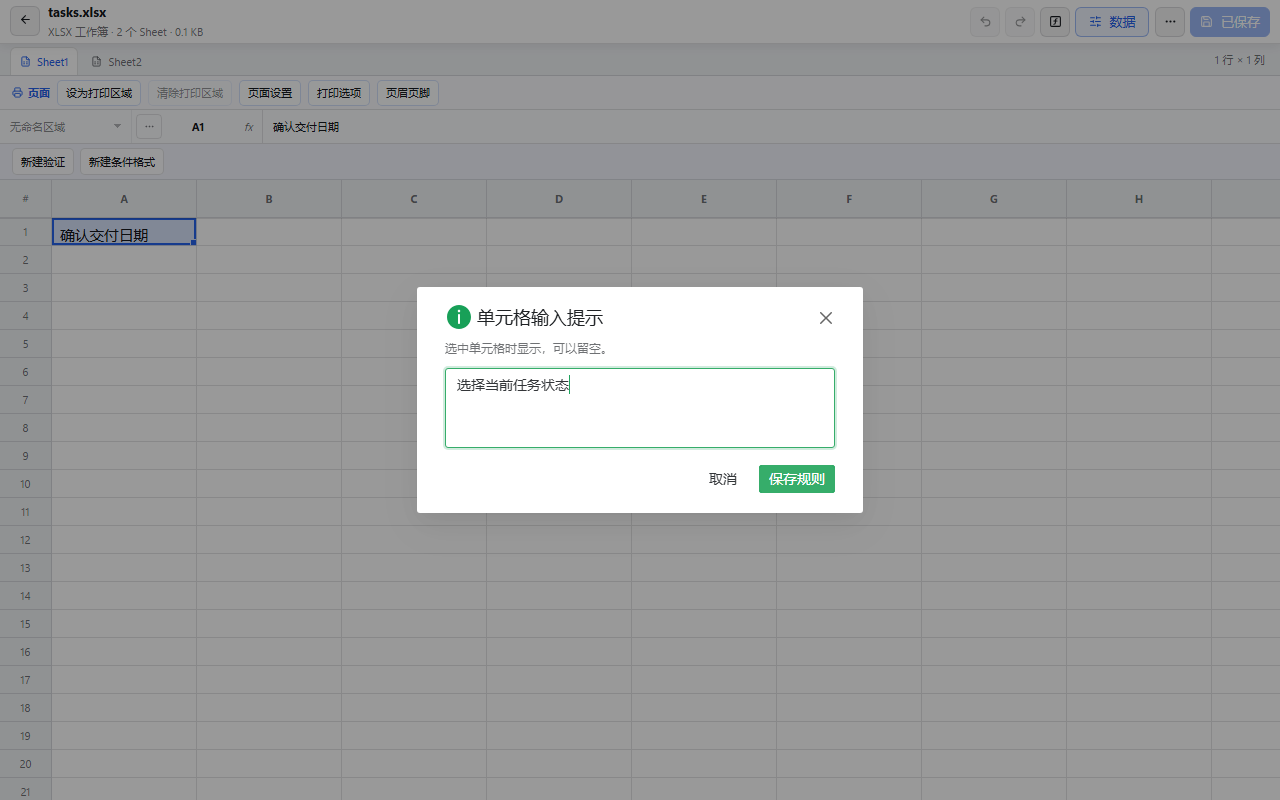
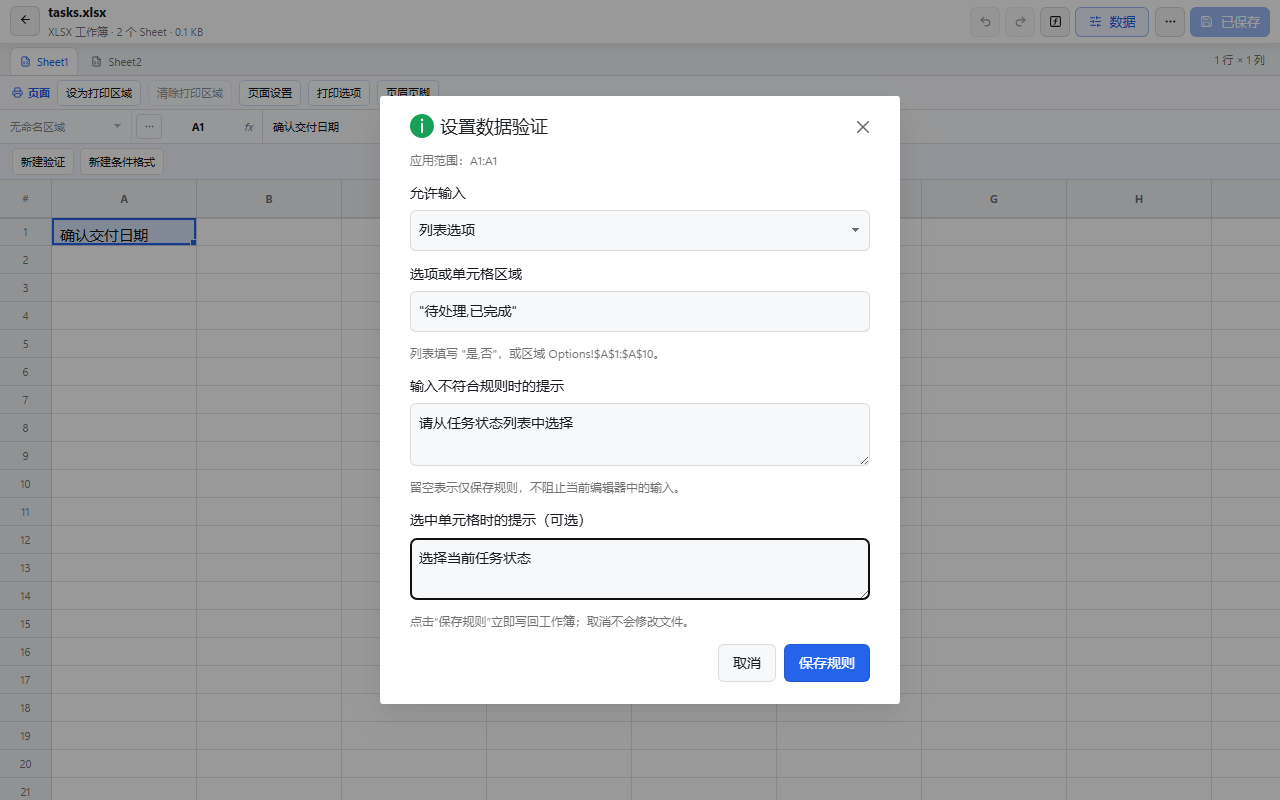
feat(ui): replace workbook validation prompts with a labeled form

Changed region(s): [[0.2812, 0.0938, 0.7188, 0.9062]]

diff --git a/src/views/WorkbookView.vue b/src/views/WorkbookView.vue
@@ -897,6 +897,8 @@ import WorkspaceToolbar from '../components/workspace/WorkspaceToolbar.vue'
 import WorkspaceTabs from '../components/WorkspaceTabs.vue'
 import { recallWorkspaceViewState, rememberWorkspaceViewState } from '../services/workspaceViewState'
 import { confirmAppAction, promptAppAction } from '../services/appDialog'
+import WorkbookValidationForm, { type ValidationFields } from '../components/WorkbookValidationForm.vue'
+import { h } from 'vue'
 import { useDialog, useMessage } from 'naive-ui'
 import { AlignCenter as AlignCenterIcon, AlignLeft as AlignLeftIcon, AlignRight as AlignRightIcon, ArrowLeft as ArrowLeftIcon, Bold as BoldIcon, Check as CheckIcon, ChevronDown as ChevronDownIcon, FileSpreadsheet as SheetIcon, FunctionSquare as FunctionIcon, Grid2X2 as BorderIcon, Italic as ItalicIcon, MoreHorizontal as MoreIcon, PaintBucket as FillIcon, Printer as PrinterIcon, Redo2 as RedoIcon, Save as SaveIcon, SlidersHorizontal as SlidersIcon, Type as TypeIcon, Underline as UnderlineIcon, Undo2 as UndoIcon, WrapText as WrapIcon } from 'lucide-vue-next'
 import { useAppStore } from '../store/app'
@@ -2983,60 +2985,42 @@ const commitTableLifecycleChange = (change: WorkbookTableChange, area: WorkbookM
   if (sheetProtected.value) return void message.error('当前 Sheet 受保护，不能编辑 Table')
   stageWorkbookObjectDraft({ kind: 'table', label: success, area: { ...area }, tableChange: cloneDraftData(change) })
 }
-const promptDataValidationRule = async (existing: WorkbookDataValidation | undefined, ranges: WorkbookMergeRange[]): Promise<WorkbookDataValidation | null> => {
+const promptDataValidationRule = (existing: WorkbookDataValidation | undefined, ranges: WorkbookMergeRange[]): Promise<WorkbookDataValidation | null> => new Promise(resolve => {
   const isCurrent = captureEditContext()
-  const promptRule = async (options: Parameters<typeof promptAppAction>[1]) => {
-    const answer = await promptAppAction(dialog, options)
-    if (answer === null) return null
-    if (!isCurrent()) { message.warning('编辑状态已变化，请重新设置数据验证'); return null }
-    return answer
+  const kinds = ['list', 'whole', 'decimal', 'textLength', 'custom']
+  const operators = ['between', 'notBetween', 'equal', 'notEqual', 'lessThan', 'lessThanOrEqual', 'greaterThan', 'greaterThanOrEqual']
+  if (existing && (!kinds.includes(existing.kind) || (existing.operator && !operators.includes(existing.operator)))) {
+    message.warning('当前规则超出支持范围，请保留原规则')
+    resolve(null)
+    return
   }
-  const kindInput = await promptRule({ title: '数据验证类型', content: '可用类型：list（列表）、whole（整数）、decimal（小数）、textLength（文本长度）或 custom（自定义公式）。', initialValue: existing?.kind || 'list', positiveText: '下一步' })
-  if (kindInput === null) return null
-  const kindAliases: Record<string, string> = { list: 'list', '列表': 'list', whole: 'whole', '整数': 'whole', decimal: 'decimal', '小数': 'decimal', textlength: 'textLength', '文本长度': 'textLength', custom: 'custom', '自定义': 'custom', '自定义公式': 'custom' }
-  const kind = kindAliases[kindInput.trim().toLocaleLowerCase()] || kindAliases[kindInput.trim()]
-  if (!kind) { message.error('不支持的数据验证类型'); return null }
-  let operator: string | undefined
-  if (['whole', 'decimal', 'textLength'].includes(kind)) {
-    const input = await promptRule({ title: '数据验证比较方式', content: '可用方式：between、notBetween、equal、notEqual、lessThan、lessThanOrEqual、greaterThan、greaterThanOrEqual。', initialValue: existing?.operator || 'between', positiveText: '下一步' })
-    if (input === null) return null
-    operator = input.trim()
-    if (!['between', 'notBetween', 'equal', 'notEqual', 'lessThan', 'lessThanOrEqual', 'greaterThan', 'greaterThanOrEqual'].includes(operator)) {
-      message.error('不支持的比较方式'); return null
-    }
-  }
-  const formulaHint = kind === 'list'
-    ? '输入列表来源：字面量示例 "是,否"，或区域公式示例 Options!$A$1:$A$10'
-    : kind === 'custom'
-      ? '输入自定义公式，例如 A1>0；公式按选区左上角作为相对引用基准'
-      : '输入第一个比较值或公式'
-  const formula1 = (await promptRule({ title: '数据验证来源或公式', content: formulaHint, initialValue: existing?.formula1 || (kind === 'list' ? '"是,否"' : kind === 'custom' ? `${columnLabel(ranges[0].left)}${ranges[0].top + 1}<>""` : '0'), positiveText: '下一步' }))?.trim()
-  if (!formula1) return null
-  let formula2: string | undefined
-  if (operator === 'between' || operator === 'notBetween') {
-    const input = await promptRule({ title: '第二个比较值', content: '输入第二个比较值或公式。', initialValue: existing?.formula2 || '100', positiveText: '下一步' })
-    if (input === null) return null
-    formula2 = input.trim()
-    if (!formula2) return null
-  }
-  const error = await promptRule({ title: '数据验证错误提示', content: '留空表示仅保存规则，不阻止当前编辑器中的输入。', initialValue: existing?.error || '输入不符合此单元格的数据验证规则', positiveText: '下一步', multiline: true })
-  if (error === null) return null
-  const prompt = await promptRule({ title: '单元格输入提示', content: '选中单元格时显示，可以留空。', initialValue: existing?.prompt || '', positiveText: '保存规则', multiline: true })
-  if (prompt === null) return null
-  return {
-    ranges: ranges.map(range => ({ ...range })),
-    kind,
-    operator,
-    formula1,
-    formula2,
-    allowBlank: existing?.allowBlank ?? true,
-    showErrorMessage: Boolean(error.trim()),
-    errorTitle: error.trim() ? (existing?.errorTitle || '输入无效') : undefined,
-    error: error.trim() || undefined,
-    promptTitle: prompt.trim() ? (existing?.promptTitle || '数据验证') : undefined,
-    prompt: prompt.trim() || undefined,
-  }
-}
+  let settled = false
+  const settle = (value: WorkbookDataValidation | null) => { if (!settled) { settled = true; resolve(value) } }
+  const handle = dialog.create({
+    title: '设置数据验证',
+    style: { width: '520px', maxWidth: 'calc(100vw - 32px)' },
+    content: () => h(WorkbookValidationForm, {
+      rangeLabel: ranges.map(r => `${columnLabel(r.left)}${r.top + 1}:${columnLabel(r.right)}${r.bottom + 1}`).join(', '),
+      customDefault: `${columnLabel(ranges[0].left)}${ranges[0].top + 1}<>""`,
+      initial: { kind: existing?.kind || 'list', operator: existing?.operator || 'between', formula1: existing?.formula1 || '"是,否"', formula2: existing?.formula2 || '100', error: existing?.error ?? '输入不符合此单元格的数据验证规则', prompt: existing?.prompt || '' },
+      onCancel: () => { settle(null); handle.destroy() },
+      onApply: (fields: ValidationFields) => {
+        if (!isCurrent()) { message.warning('编辑状态已变化，请重新设置数据验证'); settle(null); handle.destroy(); return }
+        settle({
+          ranges: ranges.map(range => ({ ...range })), kind: fields.kind,
+          operator: fields.operator || undefined, formula1: fields.formula1, formula2: fields.formula2 || undefined,
+          allowBlank: existing?.allowBlank ?? true, showErrorMessage: Boolean(fields.error.trim()),
+          errorTitle: fields.error.trim() ? (existing?.errorTitle || '输入无效') : undefined,
+          error: fields.error.trim() || undefined,
+          promptTitle: fields.prompt.trim() ? (existing?.promptTitle || '数据验证') : undefined,
+          prompt: fields.prompt.trim() || undefined,
+        })
+        handle.destroy()
+      },
+    }),
+    onClose: () => settle(null), onEsc: () => settle(null), onMaskClick: () => settle(null), onAfterLeave: () => settle(null),
+  })
+})
 const commitDataValidationChange = async (change: WorkbookDataValidationChange, _area: WorkbookMergeRange, success: string) => {
   if (isExternal.value || !workbook.value || saving.value || updatingStructure.value) return
   if (sheetProtected.value) return void message.error('当前 Sheet 受保护，不能修改数据验证')

diff --git a/src/components/WorkbookValidationForm.vue b/src/components/WorkbookValidationForm.vue
@@ -1,0 +1,48 @@
+<template>
+  <form class="validation-form" @submit.prevent="submit">
+    <p>应用范围：{{ rangeLabel }}</p>
+    <label>允许输入<select v-model="draft.kind" aria-label="允许输入" @change="changeKind">
+      <option value="list">列表选项</option><option value="whole">整数</option><option value="decimal">小数</option><option value="textLength">文本长度</option><option value="custom">自定义公式</option>
+    </select></label>
+    <label v-if="numeric">满足条件<select v-model="draft.operator" aria-label="满足条件">
+      <option value="between">介于</option><option value="notBetween">不介于</option><option value="equal">等于</option><option value="notEqual">不等于</option><option value="lessThan">小于</option><option value="lessThanOrEqual">小于或等于</option><option value="greaterThan">大于</option><option value="greaterThanOrEqual">大于或等于</option>
+    </select></label>
+    <label>{{ draft.kind === 'list' ? '选项或单元格区域' : draft.kind === 'custom' ? '验证公式' : '值或公式' }}<input v-model="draft.formula1" required autofocus /></label>
+    <p v-if="draft.kind === 'list'">列表填写 "是,否"，或区域 Options!$A$1:$A$10。</p>
+    <p v-if="draft.kind === 'custom'">公式以选区左上角为相对引用基准。</p>
+    <label v-if="second">第二个值或公式<input v-model="draft.formula2" required /></label>
+    <label>输入不符合规则时的提示<textarea v-model="draft.error" rows="2" /></label>
+    <p>留空表示仅保存规则，不阻止当前编辑器中的输入。</p>
+    <label>选中单元格时的提示（可选）<textarea v-model="draft.prompt" rows="2" /></label>
+    <p>点击“保存规则”立即写回工作簿；取消不会修改文件。</p>
+    <p v-if="error" role="alert">{{ error }}</p>
+    <footer><button type="button" @click="$emit('cancel')">取消</button><button type="submit" class="primary">保存规则</button></footer>
+  </form>
+</template>
+<script lang="ts">
+export interface ValidationFields { kind: string; operator: string; formula1: string; formula2: string; error: string; prompt: string }
+</script>
+<script setup lang="ts">
+import { computed, reactive, ref } from 'vue'
+const props = defineProps<{ initial: ValidationFields; rangeLabel: string; customDefault: string }>()
+const emit = defineEmits<{ apply: [value: ValidationFields]; cancel: [] }>()
+const draft = reactive({ ...props.initial })
+const error = ref('')
+const numeric = computed(() => ['whole', 'decimal', 'textLength'].includes(draft.kind))
+const second = computed(() => numeric.value && ['between', 'notBetween'].includes(draft.operator))
+const changeKind = () => { error.value = ''; draft.formula1 = draft.kind === 'list' ? '"是,否"' : draft.kind === 'custom' ? props.customDefault : '0' }
+const submit = () => {
+  if (!draft.formula1.trim() || (second.value && !draft.formula2.trim())) { error.value = '请填写来源或比较值。'; return }
+  emit('apply', { ...draft, operator: numeric.value ? draft.operator : '', formula1: draft.formula1.trim(), formula2: second.value ? draft.formula2.trim() : '' })
+}
+</script>
+<style scoped>
+.validation-form { display: grid; gap: 12px; max-height: min(680px, calc(100dvh - 150px)); overflow-y: auto; padding: 2px; color: var(--theme-text); }
+.validation-form label { display: grid; gap: 6px; }
+.validation-form p { margin: 0; color: var(--theme-text-secondary); font-size: 12px; }
+.validation-form input,.validation-form select,.validation-form textarea { width: 100%; box-sizing: border-box; padding: 8px; border: 1px solid var(--workspace-border-color); border-radius: 6px; background: var(--theme-bg); color: var(--theme-text); font: inherit; }
+.validation-form footer { display: flex; justify-content: flex-end; gap: 8px; }
+.validation-form button { padding: 7px 14px; border: 1px solid var(--workspace-border-color); border-radius: 6px; color: var(--theme-text); background: var(--theme-bg); cursor: pointer; }
+.validation-form .primary { background: var(--theme-primary); color: var(--workspace-on-accent); }
+.validation-form [role="alert"] { color: var(--status-danger); }
+</style>

diff --git a/docs/V1_1_0_UI_Validation_Form_2026-10-13.md b/docs/V1_1_0_UI_Validation_Form_2026-10-13.md
@@ -1,0 +1,19 @@
+# 工作簿数据验证表单接续
+
+用户要求继续完成全部页面后再打开软件展示。本步沿用已展示的单页表单方向，用中文选择替代连续英文输入，保留五类验证、八类比较、来源/公式、错误提示及选中提示。
+
+## 实际代码纠偏
+
+上一批示意和审计写成“应用规则仅修改草稿”不正确：`commitDataValidationChange` 直接调用原生写入。现保留既有显式写回语义，按钮明确“保存规则”，界面说明立即写回；未擅自改造保存模型。
+
+保留取消、关闭、Esc、遮罩退出不写入，提交时复核文档/选区上下文；保留原 allowBlank、标题与安全限制。未知规则不转换。旧表单分步测试迁移为单表单提交/退出测试，不删除保存锁、切表、非法输入和失败重试断言。
+
+## 验证
+
+- `test-workbook-validation-form.mjs`：类型切换、条件字段、取消、列表保存模拟回读和编辑回显通过。
+- `test-workbook-edit-boundaries.mjs`：27 项通过。
+- `test-workbook-validation-browser.mjs`：实际页面创建/取消/删除、写入锁、切表、非法输入、失败重试通过。
+- `test-workbook-panels-layout.mjs`：窄页面入口、取消与格式面板回归通过。
+- [实际截图](evidence/v110-workbook-validation-form/) 已查看。原生 IPC 模拟，未宣称 XLSX 原生落盘通过。
+
+仍继续完整页面/高级面板清点与回归；未达到全部重构完成，不启动旧二进制冒充当前成果，不封板。

diff --git a/docs/Development_Status_Audit_2026-10-12.md b/docs/Development_Status_Audit_2026-10-12.md
@@ -1,5 +1,7 @@
 # 当前开发审计与接续方向
 
+最新（2026-10-13）：[数据验证中文表单](V1_1_0_UI_Validation_Form_2026-10-13.md) 已实现并通过实际页面/27 项边界回归；纠正上一批示意的“草稿”误述，仍为明确点击后直接保存规则。用户要求全部页面重构完成后才打开软件展示；继续清点高级面板，不宣称全部完成。
+
 当前批次总审计（2026-10-13）：[七页面修复、回归与下一交互方案](V1_1_0_UI_Batch_Audit_2026-10-13.md)。七套浏览器检查及构建通过，各步已推送；工作簿规则表单示意待确认，原生/历史门禁/版本合同仍待收尾，未封板。
 
 最新顺序进度（2026-10-13）：[设置页](V1_1_0_UI_Settings_2026-10-13.md) 完成容器适配与八分类实际切换检查，本批已连续推进 OPML、Canvas、Mermaid、Draw.io、图谱、媒体与设置。进入统一回归和规则表单设计确认；不等同全功能验收，尚未封板。
